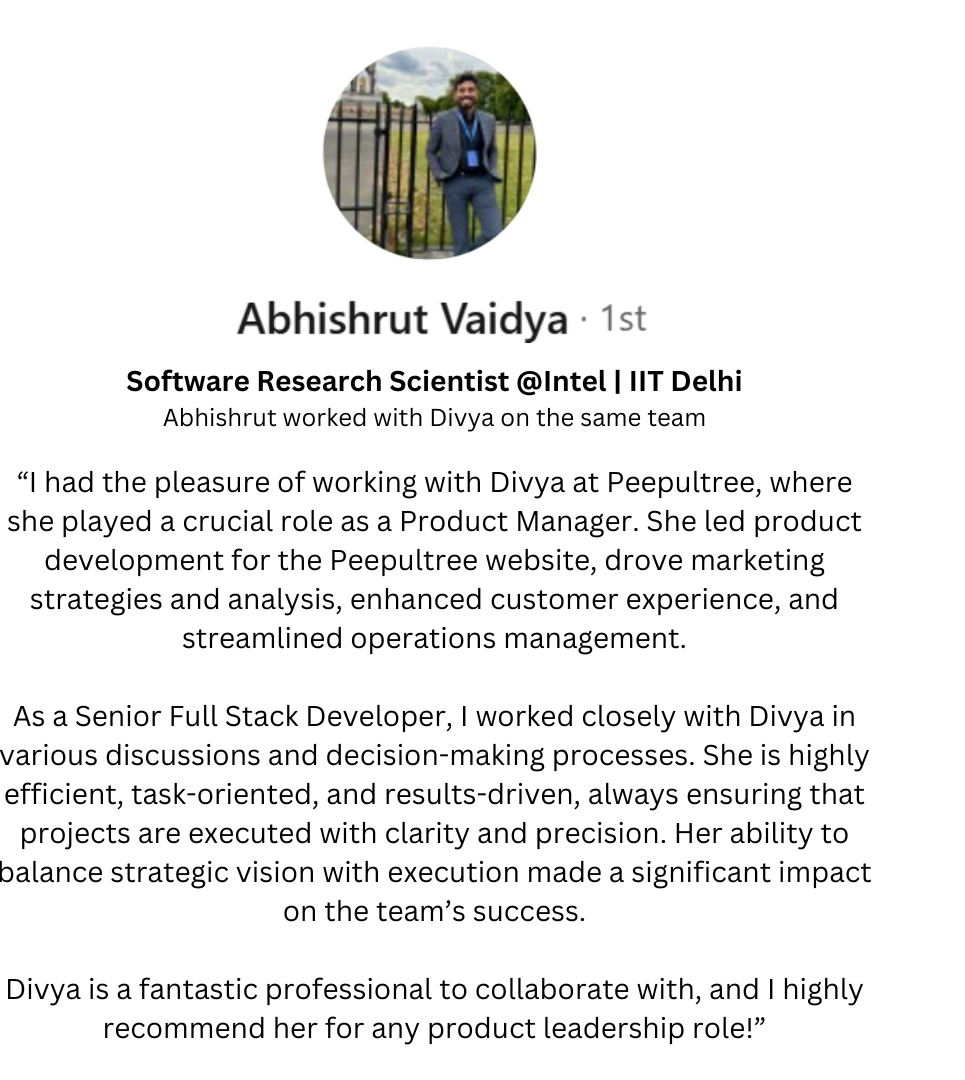
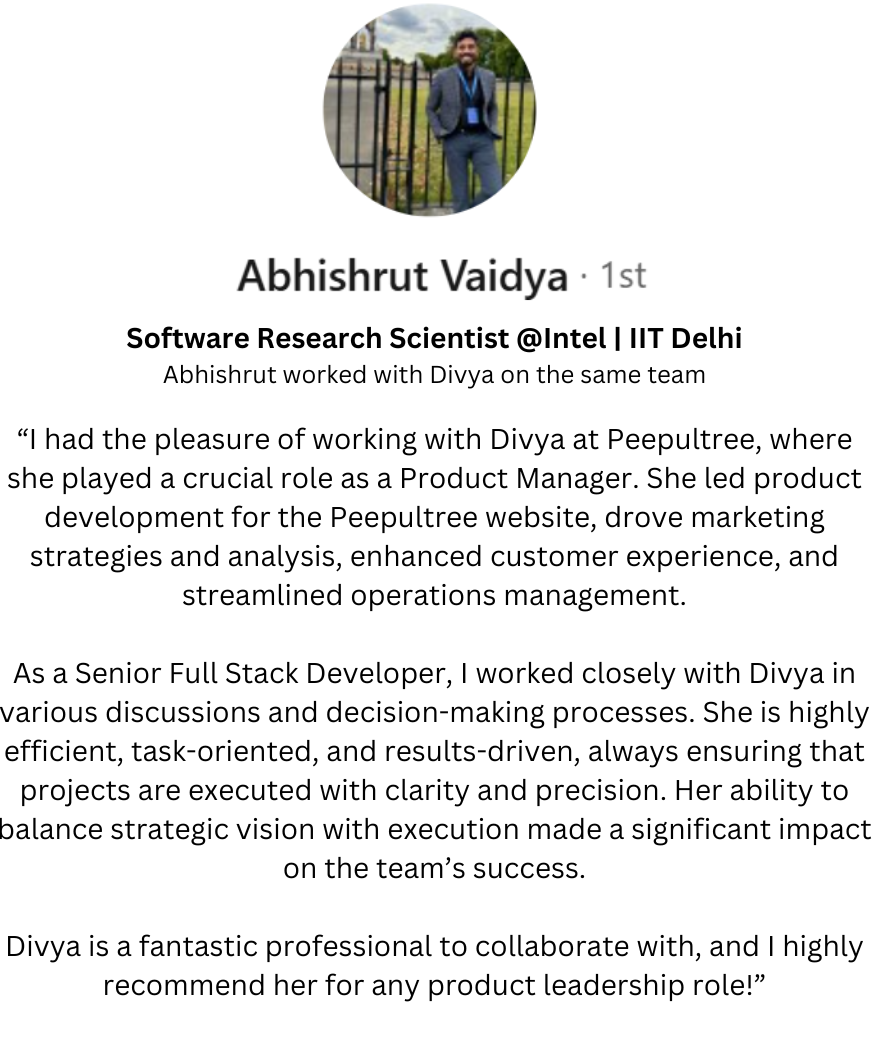
updated images 4

diff --git a/index.html b/index.html
@@ -511,7 +511,7 @@ by 50%.<br>
                         
                         <div>
                             <i class="fa fa-3x fa-quote-left text-primary mb-4"></i>
-                            <img  src="img/2.png" style="width: 400px; height: 600px;">
+                            <img  src="img/2.png" style="width: 300px; height: 600px;">
                     
                         </div>
                         
@@ -523,7 +523,7 @@ by 50%.<br>
                         </div>
                         <div>
                             <i class="fa fa-3x fa-quote-left text-primary mb-4"></i>
-                            <img  src="img/4.png" style="width: 400px; height: 600px;">
+                            <img  src="img/4.png" style="width: 300px; height: 600px;">
                     
                         </div>
                     
